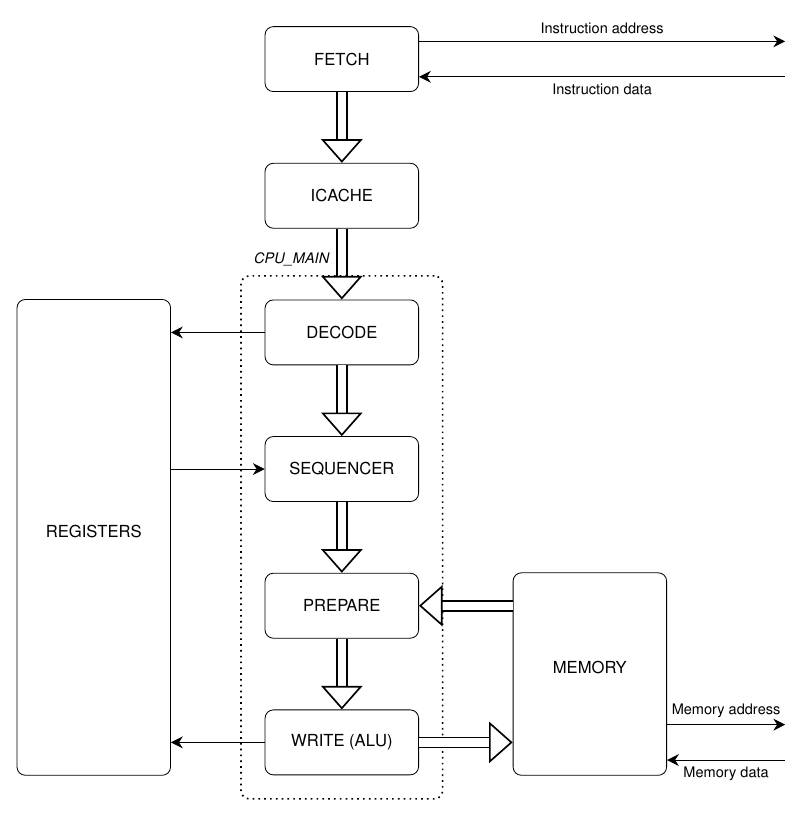
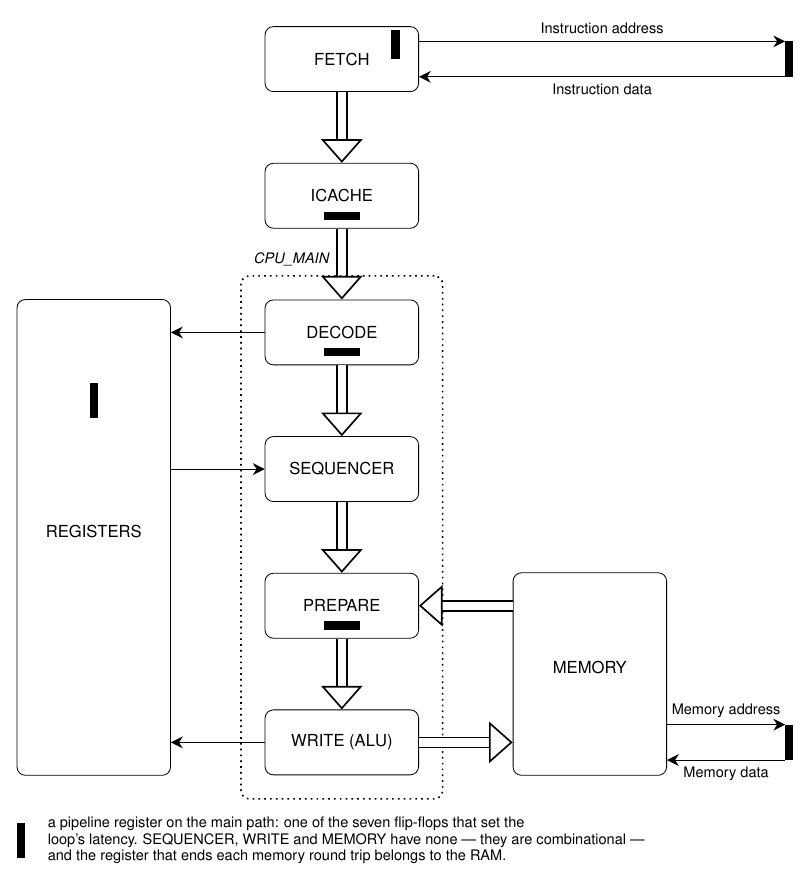
doc: Mark the main-path pipeline registers in the block diagram
The block diagram showed the module hierarchy but said nothing about where
the clock cycles go. Short black bars now mark the seven flip-flops on the
main path, drawn across the path each one cuts:

  FETCH, at the base of the instruction-address arrow  wb_addr_o
  the instruction memory, at the far end of that arrow dp_ram's read register
  ICACHE, at its output                                m_data_o
  DECODE, at its output                                seq_stage_o
  REGISTERS, in the middle                             dp_ram's read register
  PREPARE, at its output                               wr_stage_o
  the data memory, at the far end of its address arrow dp_ram's read register

Where they are NOT is the more useful half, and it is now visible at a
glance. SEQUENCER's p_output is a "process (all)" that slices one microcode
chunk out of the list DECODE has already registered. WRITE's p_reg is
likewise combinational, which is why reg_addr_o, fetch_addr_o and
fetch_valid_o are decoded within the cycle and are the design's
timing-critical nets. And MEMORY buffers its Wishbone request and both read
responses in one_stage_buffers, which cut through combinationally when
empty -- so on both the instruction and the data side the register that
closes the round trip belongs to the RAM, not to the module in front of it.
That is why those two bars sit on the bus arrows rather than inside a block.

A legend under the diagram explains the symbol, since a bare black bar is
[…]

diff --git a/doc/cpu.tex b/doc/cpu.tex
@@ -14,6 +14,29 @@
 % bank-switch signals -- those are described in doc/README.md and in the
 % per-module READMEs, and drawing them here would turn the picture into a net
 % list.
+%
+% The short black bars are the pipeline registers that set the loop's latency:
+% every clock cycle a beat spends going round is one of them. There are seven,
+% and where they are NOT is as informative as where they are.
+%
+%   FETCH, at the base of the instruction-address arrow  wb_addr_o (p_wishbone)
+%   the instruction memory, at the far end of that arrow dp_ram's read register
+%   ICACHE, at its output                                m_data_o
+%   DECODE, at its output                                seq_stage_o (p_output)
+%   REGISTERS, in the middle                             dp_ram's read register
+%   PREPARE, at its output                               wr_stage_o (p_output)
+%   the data memory, at the far end of its address arrow dp_ram's read register
+%
+% SEQUENCER, WRITE and MEMORY have none. SEQUENCER's p_output is a
+% "process (all)" that slices one microcode chunk out of DECODE's registered
+% list; WRITE's p_reg is likewise combinational, which is why reg_addr_o,
+% fetch_addr_o and fetch_valid_o are decoded within the cycle and are the
+% design's timing-critical nets; and MEMORY buffers its Wishbone request in a
+% one_stage_buffer and its responses in one_stage_buffers, all of which cut
+% through combinationally when empty. So on both the instruction and the data
+% side the register that ends the round trip belongs to the RAM, not to the
+% module in front of it -- hence the two bars sitting on the bus arrows rather
+% than inside a block. doc/loop_timing.tex draws the same fact as a waveform.
 
 \documentclass[border=8pt]{standalone}
 
@@ -60,7 +83,16 @@
       wire/.style   = {draw, -{Stealth[length=2mm, width=2mm]}},
       % "above" or "below" is chosen per arrow, so that the two labels of a
       % bus pair sit outside the pair rather than in the gap between them.
-      buslabel/.style = {midway, font = \sffamily\scriptsize}
+      buslabel/.style = {midway, font = \sffamily\scriptsize},
+      % A pipeline register, drawn as a short bar ACROSS the path it cuts, so
+      % that the bar's long axis is always perpendicular to the flow: ffh for
+      % the vertical pipeline arrows, ffv for the horizontal buses. Both are
+      % 6mm long, which is exactly the 3mm-either-side spacing of a bus pair,
+      % so a bar dropped between the two arrows of a pair touches both.
+      ffh/.style = {fill = black, inner sep = 0pt,
+                    minimum width = 6mm, minimum height = 1.4mm},
+      ffv/.style = {fill = black, inner sep = 0pt,
+                    minimum width = 1.4mm, minimum height = 6mm}
    ]
 
    %% ---------------------------------------------------------------
@@ -157,6 +189,54 @@
       node[buslabel, above] {Memory address};
    \draw[wire] ([yshift = -3mm] dbusr) -- ([yshift = -3mm] dbusl)
       node[buslabel, below] {Memory data};
+
+   %% ---------------------------------------------------------------
+   %% The pipeline registers
+   %% ---------------------------------------------------------------
+   %
+   % Drawn last, so that a bar sits on top of the arrow it cuts rather than
+   % under it. See the header for which register each one is.
+
+   % FETCH/wb_addr_o, at the base of the instruction-address arrow. This is the
+   % one bar that is not 6mm long: the arrow leaves 3mm above centre and the
+   % block is only 11mm tall, so a full-length bar centred on the arrow would
+   % poke out through the top edge.
+   \node[ffv, minimum height = 5mm] at ([xshift = -4mm, yshift = 2.5mm] fetch.east) {};
+
+   % ICACHE/m_data_o, DECODE/seq_stage_o, PREPARE/wr_stage_o: each at the
+   % bottom of its own block, cutting the outgoing pipeline arrow. Note the
+   % three blocks BETWEEN them -- SEQUENCER, and WRITE, and (on the right)
+   % MEMORY -- get nothing, which is the point of the whole annotation.
+   \node[ffh] at ([yshift = 2.2mm] icache.south)  {};
+   \node[ffh] at ([yshift = 2.2mm] decode.south)  {};
+   \node[ffh] at ([yshift = 2.2mm] prepare.south) {};
+
+   % REGISTERS' dp_ram read register, in the middle of the block: DECODE
+   % presents the register numbers on the upper wire and the values come back
+   % on the lower one a clock cycle later, which is exactly this flip-flop.
+   % Placed halfway between those two wires, so it is well clear of the label.
+   \coordinate (regff) at ($ (decode.west)!0.5!(seq.west) $);
+   \node[ffv] at (regff -| regs.center) {};
+
+   % The two RAM read registers. Each sits at the far end of an address arrow,
+   % just outside the CPU, and is 6mm long -- exactly the 3mm-either-side
+   % spacing of a bus pair -- so it touches the address arrow that ends on it
+   % and the data arrow that starts from it.
+   \node[ffv] at ([xshift = 0.7mm] ibusr) {};
+   \node[ffv] at ([xshift = 0.7mm] dbusr) {};
+
+   %% ---------------------------------------------------------------
+   %% Legend
+   %% ---------------------------------------------------------------
+
+   % Below REGISTERS, in the empty band under the diagram. It has to clear the
+   % bottom edge of the CPU_MAIN box, which is 4mm below write.south.
+   \node[ffv, anchor = west] (legendff) at ([yshift = -11mm] regs.south west) {};
+   \node[anchor = west, font = \sffamily\scriptsize, align = left]
+      at ([xshift = 2.5mm] legendff.east)
+      {a pipeline register on the main path: one of the seven flip-flops that set the\\
+       loop's latency. SEQUENCER, WRITE and MEMORY have none --- they are combinational ---\\
+       and the register that ends each memory round trip belongs to the RAM.};
 
 \end{tikzpicture}
 

diff --git a/doc/README.md b/doc/README.md
@@ -31,6 +31,27 @@ The dotted outline in the diagram is CPU_MAIN, which exists mainly to give the
 formal verification of DECODE, SEQUENCER, PREPARE, and WRITE a single top
 level; see [formal/cpu_main.psl](../formal/cpu_main.psl).
 
+The short black bars are the pipeline registers on the main path — the
+flip-flops that set the loop's latency, one clock cycle each. There are seven:
+`wb_addr_o` in FETCH at the base of the instruction-address arrow, the
+instruction memory's own read register at the far end of that arrow,
+`m_data_o` at ICACHE's output, `seq_stage_o` at DECODE's, the register file's
+read register in the middle of REGISTERS, `wr_stage_o` at PREPARE's, and the
+data memory's read register at the far end of the memory-address arrow.
+
+Where they are *not* is the more useful half. SEQUENCER's `p_output` is a
+`process (all)` that slices one microcode chunk out of the list DECODE has
+already registered; WRITE's `p_reg` is likewise combinational, which is why
+`reg_addr_o`, `fetch_addr_o` and `fetch_valid_o` are decoded within the cycle
+and end up being the design's timing-critical nets (see
+[The critical path](#the-critical-path)); and MEMORY buffers its Wishbone
+request and both read responses in `one_stage_buffer`s, which cut through
+combinationally when empty. So on both the instruction and the data side the
+register that closes the round trip belongs to the RAM rather than to the
+module in front of it — which is why those two bars sit on the bus arrows
+instead of inside a block. The [polling-loop waveform](#a-polling-loop-cycle-by-cycle) below
+shows the same thing cycle by cycle.
+
 The block diagram contains two additional blocks:
 * REGISTERS: Contains the CPU registers and supports two read ports (addressed
   by DECODE, with the values arriving a cycle later at SEQUENCER) and one write
